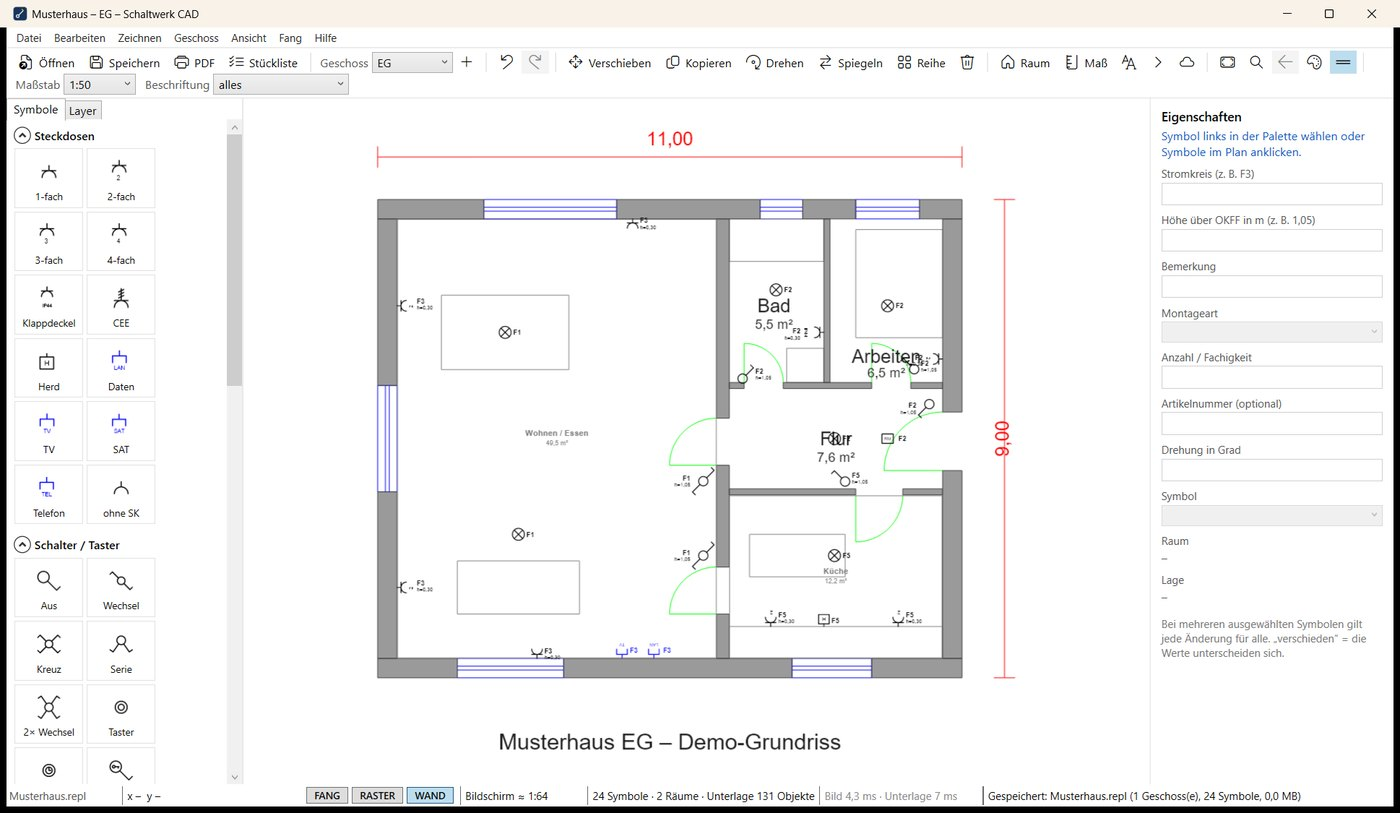
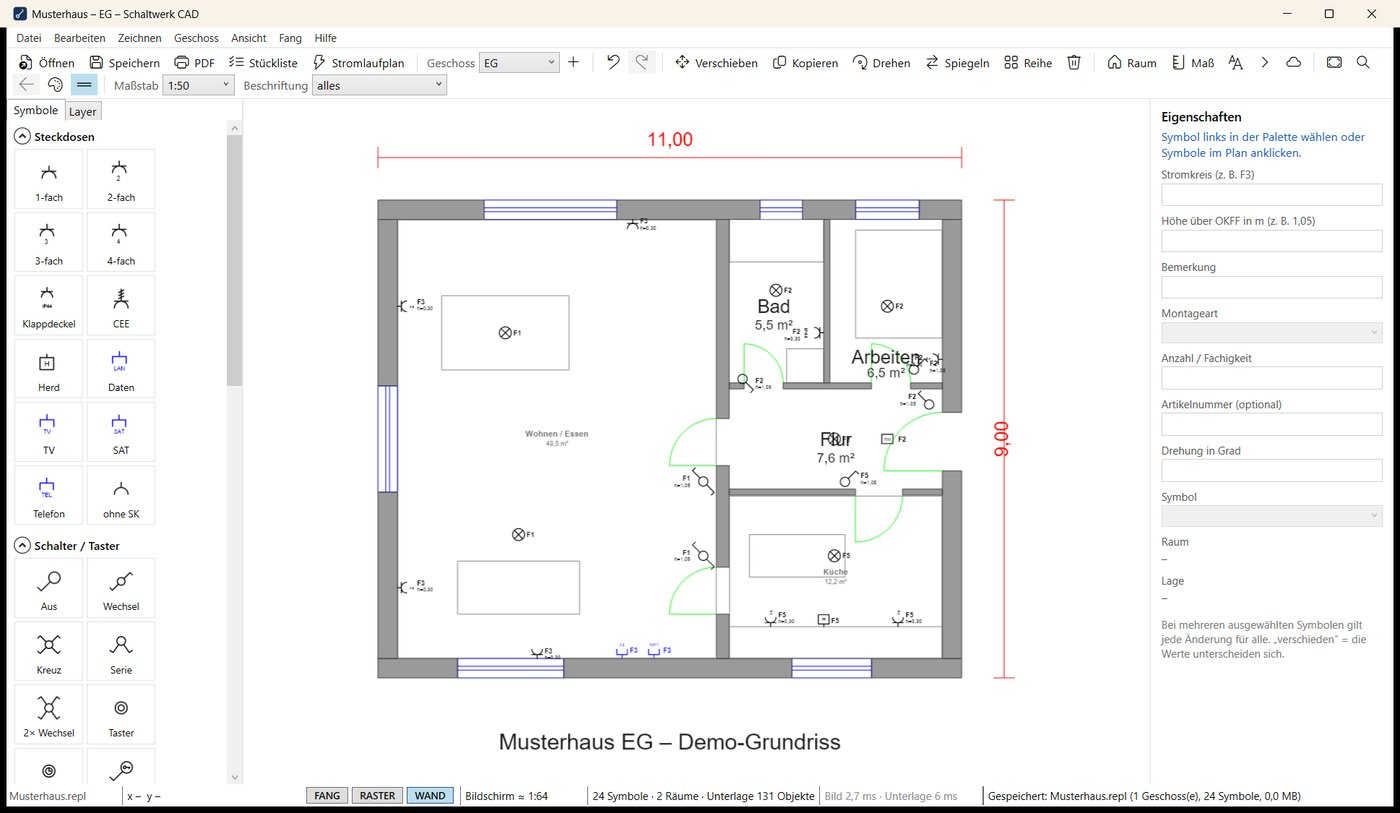
README: Stromlaufplan der Verteilung, neue Bilder (Version 1.3.2)

diff --git a/README.md b/README.md
@@ -30,6 +30,9 @@ Neue Versionen meldet das Programm selbst: oben im Fenster erscheint ein Hinweis
 - **Projekte mit mehreren Geschossen**, automatische Sicherung alle 2 Minuten, Wiederherstellung nach Absturz.
 - **Plan als PDF mit Vorschau**: A4/A3/A2, Maßstab oder „so groß wie möglich“, ganzer Plan, alle Symbole oder nur ein aufgezogener Bereich, Legende mit Stückzahlen, Mappe über alle Geschosse.
 - **Stückliste** der gesetzten Steckdosen, Schalter, Leuchten – gesamt, je Raum und je Stromkreis, zum Drucken oder als PDF.
+- **Stromlaufplan der Verteilung** (allpolig) direkt aus den Stromkreisen im Plan: Einspeisung, Hauptschalter, Schienen, FI mit LS, Abgangsklemmen – Vorschlag für FI-Belegung, LS und Phasen, in einer Tabelle anpassbar, als A3-PDF mit Schriftfeld. Geht auch ganz ohne Grundriss: Stromkreise selbst anlegen, sortieren, löschen.
+
+![Stromlaufplan der Verteilung](bilder/stromlaufplan.jpg)
 - **Eigener Firmenkopf**: Firmenname, Adresse und Logo im Schriftfeld – oder blanko.
 - **Export** als DXF/DWG mit echten Blöcken und Attributen und als JSON für den [Elektroplan-Skill](https://github.com/julayyt/elektroplan).
 
